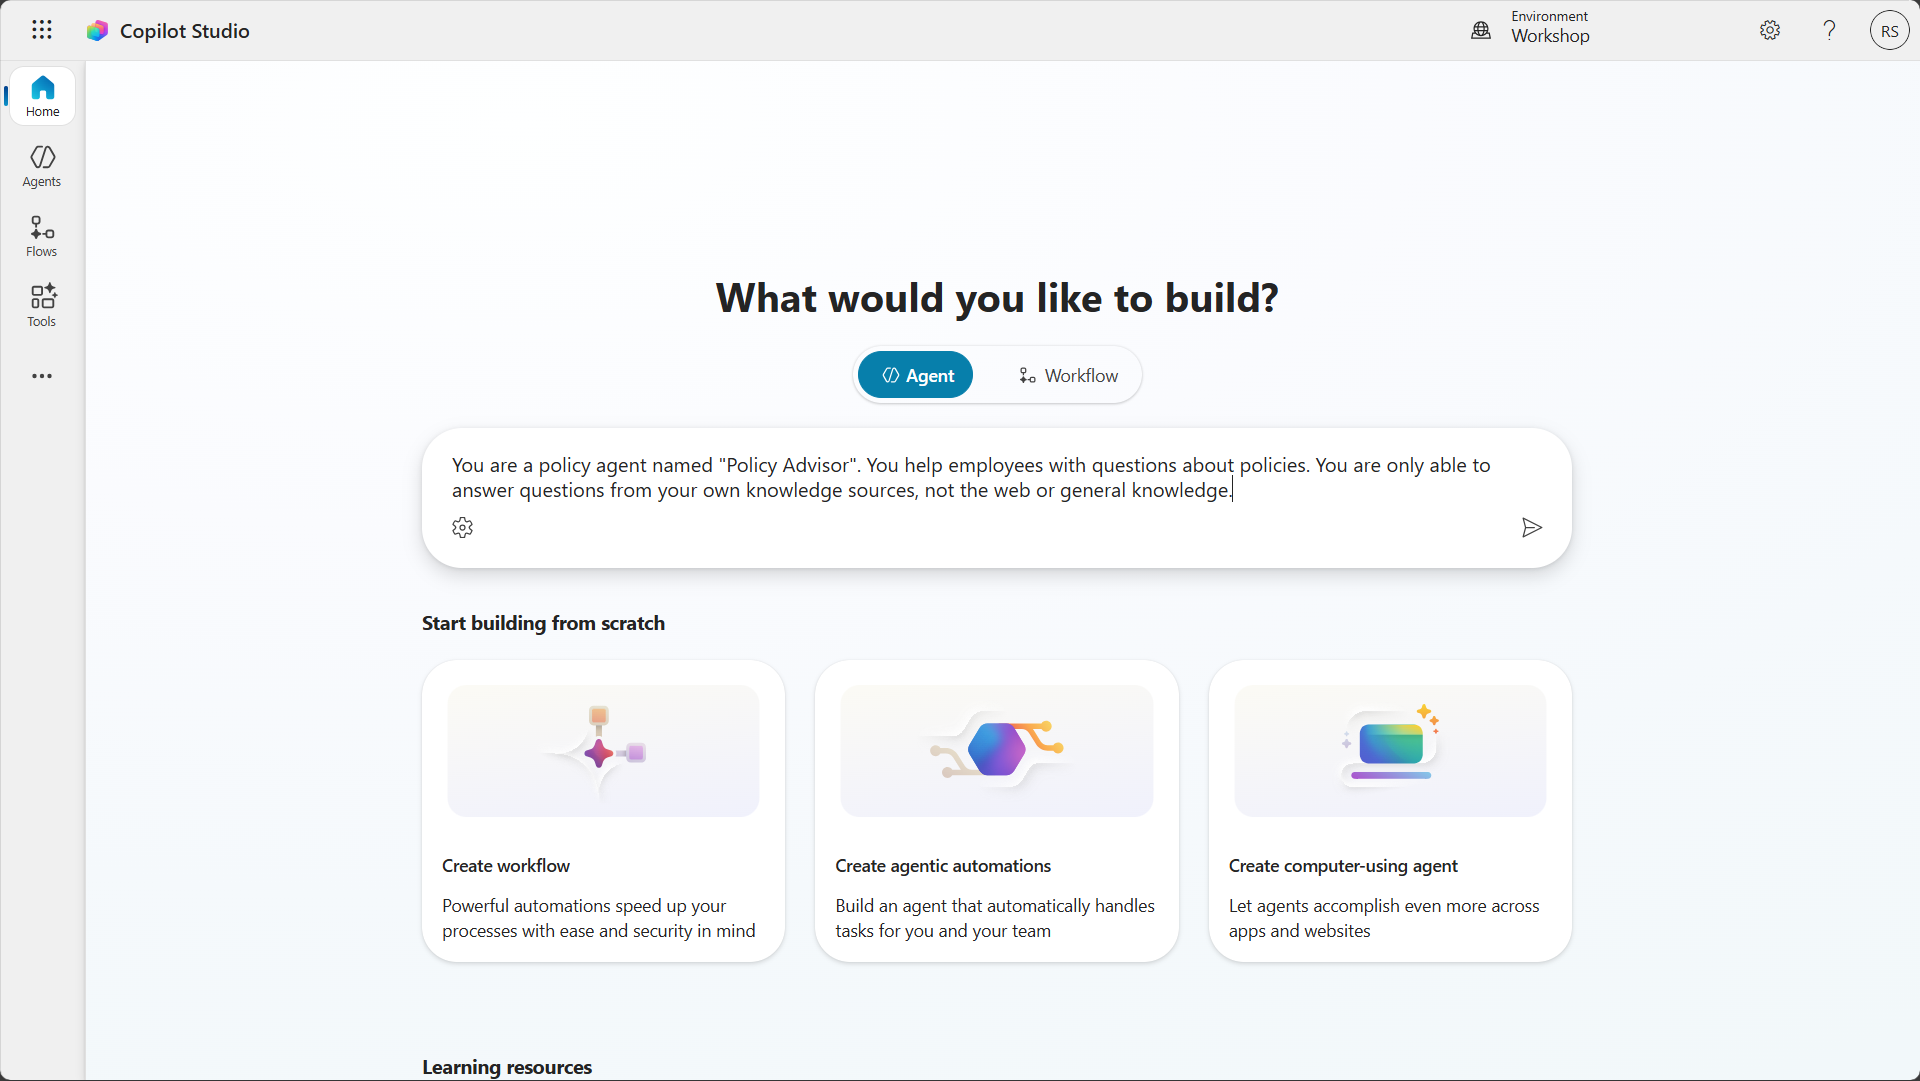
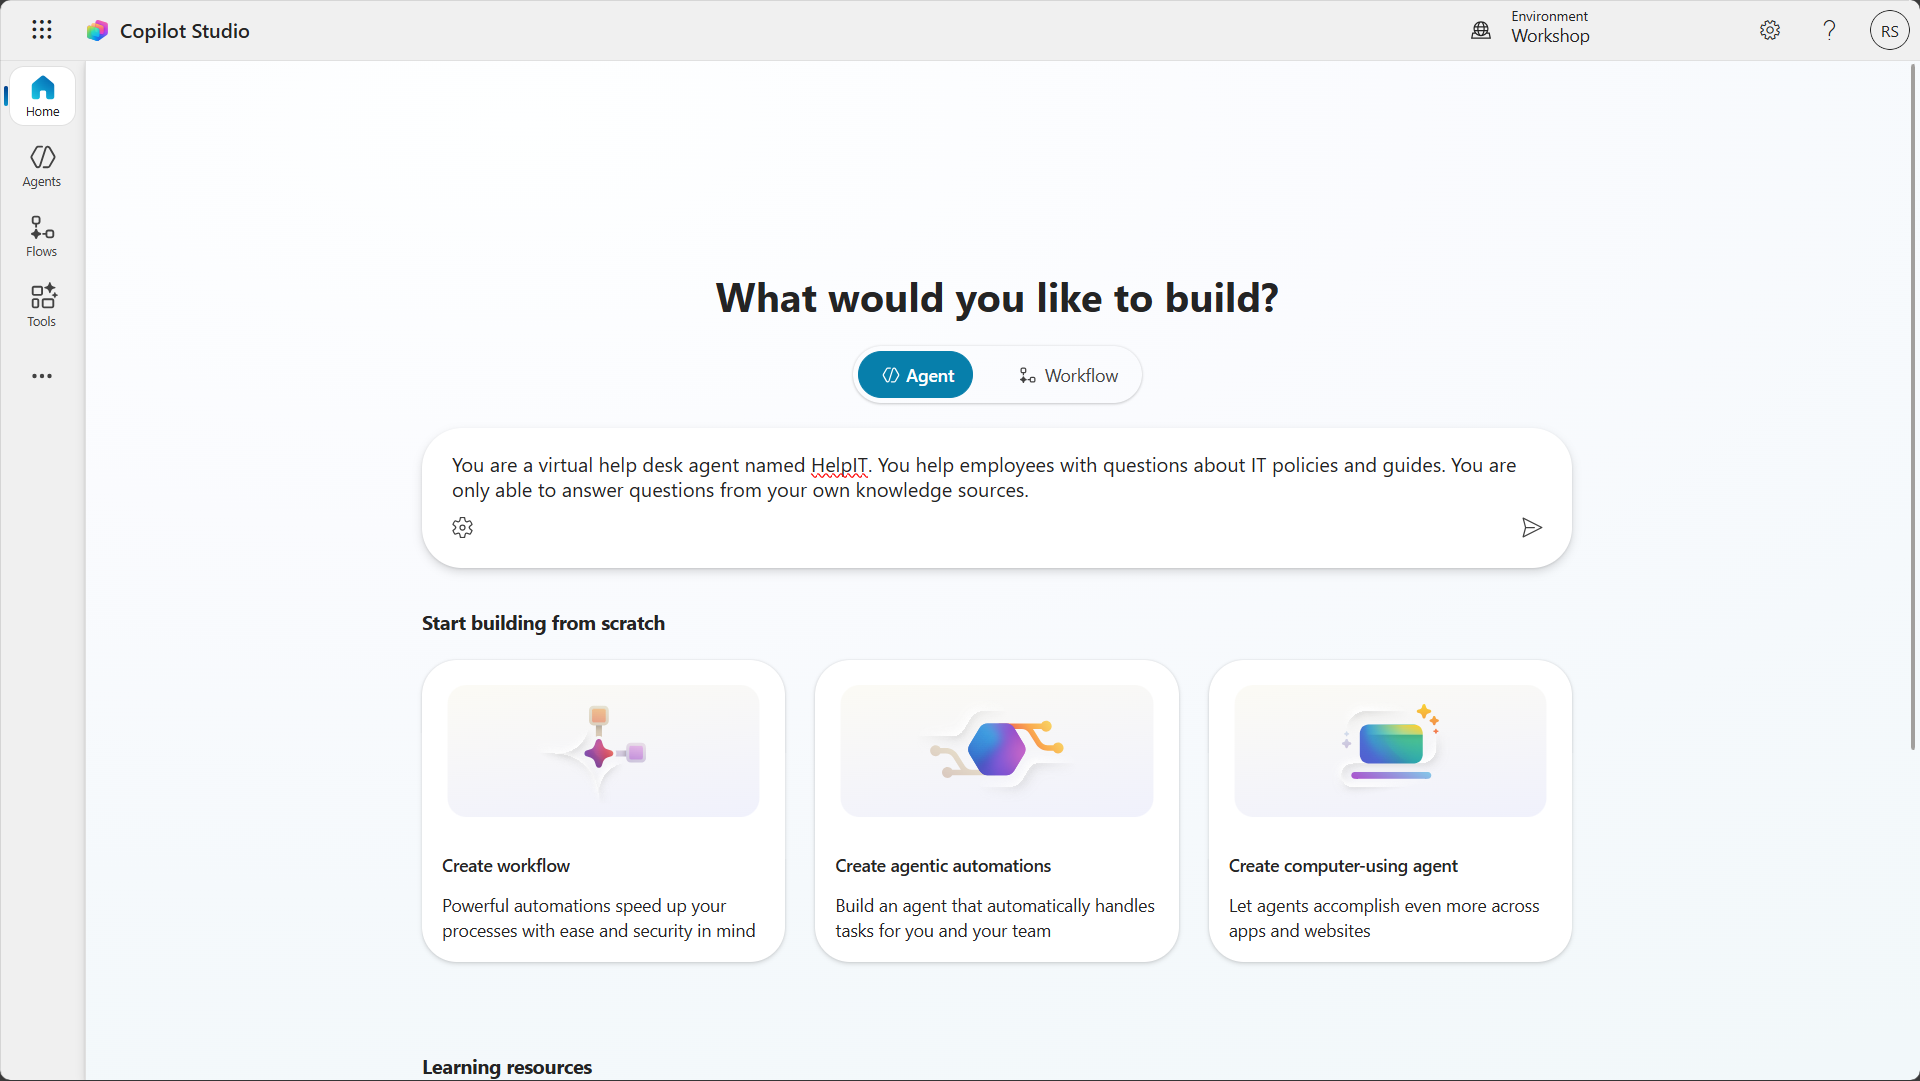
Finished BYOM

Changed region(s): [[0.25, 0.4274, 0.7812, 0.4579]]

diff --git a/docs/commander/07-extend-with-azure-ai/README.md b/docs/commander/07-extend-with-azure-ai/README.md
@@ -249,13 +249,15 @@ In this lab, you will create a Policy Advisor agent and use Azure AI Foundry and
 
 ### 7.1.1 Create the Policy Advisor agent
 
-1. Navigate to [Copilot Studio](https://copilotstudio.microsoft.com)
+1. Navigate to [Copilot Studio](https://copilotstudio.preview.microsoft.com)
 1. Enter this prompt in **What would you like to build?**:
 
-    `You are a policy agent named "Policy Advisor". You help employees with questions about policies. You are only able to answer questions from your own knowledge sources.`
+    `You are a virtual help desk agent named HelpIT. You help employees with questions about IT policies and guides. You are only able to answer questions from your own knowledge sources.`
     ![Create agent from prompt](assets/7-create-copilot-studio-agent.png)
 
-1. Select **Create** and wait for the agent to be created
+1. Select the arrow
+1. Select **Create**
+1. Wait for Copilot Studio to finish setting up the agent
 1. Select **Settings**
 1. Turn off `Use general knowledge` and `Use information from the web`
     ![Disable other knowledge sources](assets/7-copilot-studio-disable-internal-knowledge.png)
@@ -407,6 +409,8 @@ Now you'll connect your AI Search index as a knowledge source for your agent.
 1. Verify the AI Search knowledge source appears in the list of knowledge sources
     ![Verify knowledge source](assets/7-copilot-studio-verify-knowledge-source.png)
 
+### 7.1.7 Test the BYOD scenario
+
 1. Test the agent with these queries:
 
     ```text
@@ -432,29 +436,37 @@ In this lab, you'll put BYOM into practice by deploying a model from AI Foundry 
 1. Enter `Llama-3.3` in the **Search** box
 1. Select `Llama-3.3-70B-Instruct`
 1. Select **Confirm**
-    ![Select summarization model](assets/7-foundry-search-llama-model.png)
+    ![Select summarization model](assets/7-foundry-search-summarization-model.png)
 1. Select **Deploy**
-    ![Deploy summarization model](assets/7-foundry-deploy-llama-model.png)
+    ![Deploy summarization model](assets/7-foundry-deploy-summarization-model.png)
 
 ### 7.2.2 Use the model in a prompt
 
 1. In the navigation bar, select **Tools**.
 1. Select **+ Add a tool**
 1. Select **+ New tool**
+
+    ![Create new tool](assets/7-copilot-studio-new-tool.png)
+
 1. Select **Prompt**
 
 1. Enter `IT policy prompt` for the name
 
 1. In the **Model** dropdown, select **+** next to **Azure AI Foundry Models**
 
+    ![Add custom model](assets/7-copilot-studio-add-custom-model.png)
+
 1. Select **Connect a new model** and enter the details:
 
-    - **Model deployment name**: Enter `llama`
-    - **Base model name**: Enter `llama`
-    - **Azure model endpoint URL**: Enter the URI from your model details from Azure AI Foundry
-    - **API Key**: Enter the API key from your model details in AI Foundry
+    - **Model deployment name**: Enter `Llama-3.3-70B-Instruct`
+    - **Base model name**: Enter `Llama-3.3-70B-Instruct`
+    - **Azure model endpoint URL**: Enter the value of `Target URI` from your model details in Azure AI Foundry
+    - **API Key**: Enter the value of `Key` from your model details in AI Foundry
+    - **Model description**: Enter `Summarization model`
 
-    Select **Connect**
+    ![Summarization model connection details](assets/7-copilot-studio-connect-summarization-model.png)
+
+1. Select **Connect**
 
 1. In the **Instructions** for the prompt, enter this prompt:
 
@@ -467,20 +479,82 @@ In this lab, you'll put BYOM into practice by deploying a model from AI Foundry 
     - Answer the user’s question using ONLY the retrieved content. 
     - Aggregate and deduplicate information. 
     - Preserve factual accuracy. 
-    - Don't include sources. Just provide a paragraph.
     - If information is missing, say so.
     ```
 
-1. Add the input parameter
-1. Save
-1. Add to agent and configure
+1. Highlight the text `Search Results`
+1. Select **+ Add content**
+1. Select **Text**
+1. Enter `SearchResults`
+1. Select **Close**
+1. Select **Save**
+1. Select **Add and configure**
+1. In the **Inputs** section, change the **Fill using** dropdown to **Custom value**
+1. Enter `SearchResults` in **Value**
+1. Select **Save**
+
+    ![Custom prompt configuration](assets/7-copilot-studio-custom-prompt.png)
 
 ### 7.2.3 Create the summarization topic
 
-1. Create a topic
-1. Add Generative Answers node
-1. Add Prompt node
-1. Add Message node
+1. In the navigation bar, select **Topics**
+1. Select **+ Add a topic** and choose **From blank**
+1. Name the topic `Summarization`
+1. In the **Trigger** node, enter this value for **Describe what the topic does**:
+   `This topic provides summaries of IT policies and guides. It responds to requests like "Summarize the WFH policy" and "Explain the password policy"`
+
+### 7.2.4 Use generative answers to get the knowledge
+
+1. Select **+** to add a node
+1. Select **Advanced**, then **Generative answers**
+1. Select **...** next to the **Enter or select a value** box
+1. Select `Activity.Text` under **System**
+1. Under **Data sources**, select **Edit**
+1. In the properties box, select **Search only selected sources**
+1. Select the Azure AI Search knowledge source you added in Lab 7.1
+
+    ![Create generative answers node](assets/7-copilot-studio-create-generative-answers-node.png)
+
+1. Scroll down and expand **Advanced**
+1. Select **Select a variable**
+1. Select **Create new**
+1. Select the variable and name it `KnowledgeResults`
+
+    ![Create KnowledgeResults variable](assets/7-copilot-studio-create-knowledgeresults-variable.png)
+
+### 7.2.5 Pass the knowledge to the custom prompt
+
+1. Select **+** to add a node
+1. Select **Add a tool**
+1. Select **IT Policy prompt**
+1. In the **Inputs** section, set the value of `SearchResults` to `KnowledgeResults`
+1. In the **Outputs** section, create a new variable named `Summary` and set it to the value of `predictionOutput`
+
+    ![Configure prompt node](assets/7-copilot-studio-configure-prompt-node.png)
+
+### 7.2.6 Output the summary
+
+1. Select **+** to add a node
+1. Select **Send a message**
+1. Select **{x}**
+1. Select `Summary.text`
+
+    ![Select Summary variable for message](assets/7-copilot-studio-select-message-variable.png)
+
+1. Select **Save**
+
+### 7.2.7 Test the BYOM scenario
+
+1. Test the agent with these prompts to see how the summarization works:
+
+    ```text
+    Explain the data backup and recovery policy
+    Summarize good passwords
+    Describe the home office technology setup
+    ```
+
+The agent will output the results from the document knowledge source first, then output a summary of the document.
+    ![Summarization output example](assets/7-copilot-studio-summarization-example.png)
 
 ## ✅ Mission Complete
 
